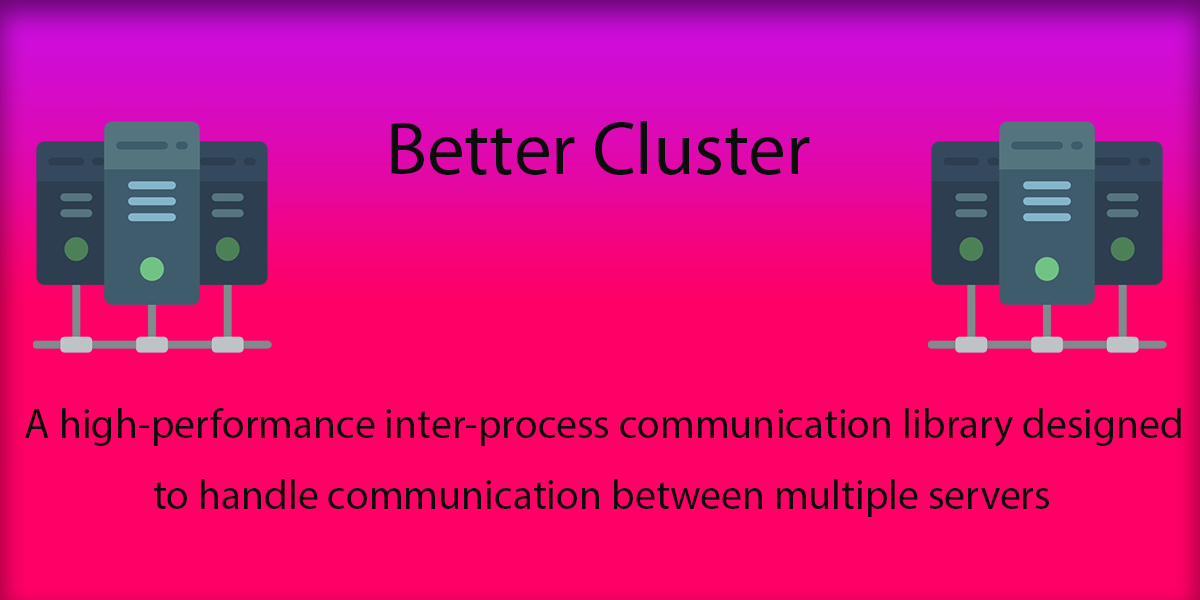
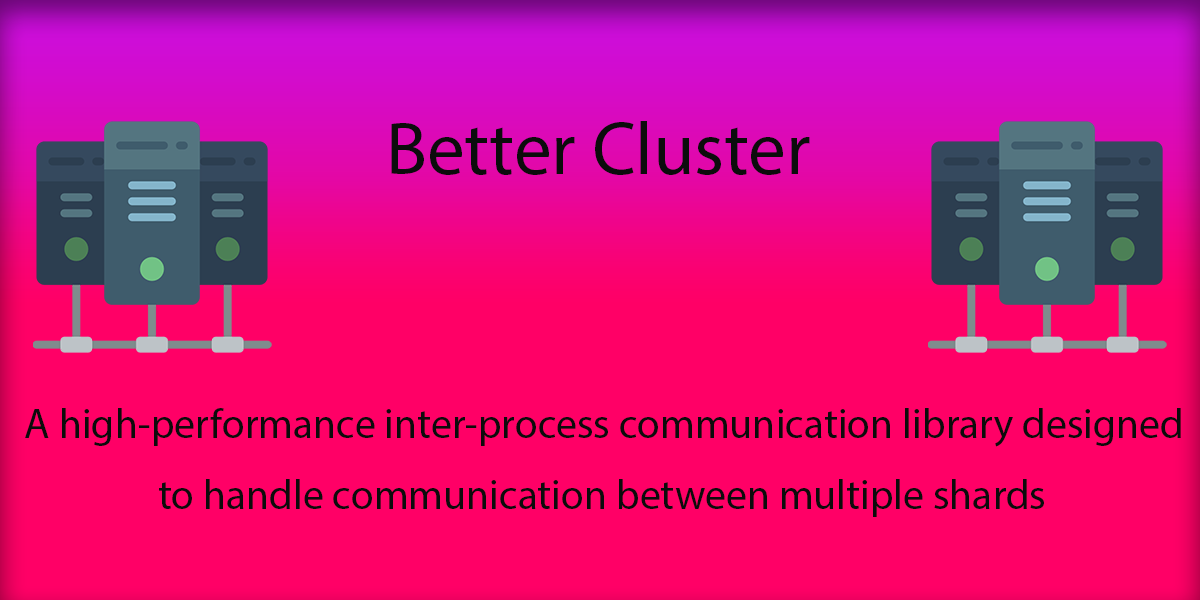
Fixing setup.py

Changed region(s): [[0.1233, 0.78, 0.8942, 0.87]]

diff --git a/setup.py b/setup.py
@@ -3,6 +3,10 @@ import re
 import setuptools
 from pathlib import Path
 
+with open("requirements.txt") as stream:
+    raw = stream.read().splitlines()
+    requirements = [x for x in raw if not x.startswith("git+")]
+
 long_description = (Path(__file__).parent / "README.md").read_text(encoding="UTF-8")
 
 _version_re = re.compile(r'__version__\s+=\s+(.*)')
@@ -11,21 +15,16 @@ with open('discord/ext/cluster/__init__.py', 'rb') as f:
     version = str(ast.literal_eval(_version_re.search(f.read().decode('UTF-8')).group(1)))
 
 setuptools.setup(
-    author="DaPandaOfficial",
-    python_requires=">=3.8.0",
-    license="MIT License",
-    author_email="miroslav.rosenov39@gmail.com",
-    long_description_content_type="text/markdown",
+    name="better-cluster",
+    version=version,
     description="A high-performance inter-process communication library designed to handle communication between multiple shards",
     long_description=long_description,
+    author="DaPandaOfficial",
+    author_email="miroslav.rosenov39@gmail.com",
     url="https://github.com/MiroslavRosenov/better-cluster",
     packages=[
         "discord.ext.cluster"
     ],
-    project_urls={
-        "Source": "https://github.com/MiroslavRosenov/better-cluster",
-        "Issue Tracker": "https://github.com/MiroslavRosenov/better-cluster/issues",
-    },
     classifiers=[
         "Development Status :: 5 - Production/Stable",
         "Framework :: AsyncIO",
@@ -43,7 +42,18 @@ setuptools.setup(
         "Topic :: Software Development :: Libraries",
         "Topic :: Software Development :: Libraries :: Python Modules",
     ],
-    keywords=["better-cluster", "cluster", "python", "discord.py"],
-    name="better-cluster",
-    version=version,
+    license="MIT License",
+    keywords=[
+        "better-cluster",
+        "better-ipc",
+        "cluster", 
+        "python", 
+        "discord.py"
+    ],
+    install_requires=requirements,
+    python_requires=">=3.8.0",
+    project_urls={
+        "Source": "https://github.com/MiroslavRosenov/better-cluster",
+        "Issue Tracker": "https://github.com/MiroslavRosenov/better-cluster/issues",
+    },
 )

diff --git a/discord/ext/cluster/__init__.py b/discord/ext/cluster/__init__.py
@@ -3,7 +3,7 @@ Better Cluster
 ~~~~~~~~~~~~~~~~~~~
 
 A high-performance inter-process communication library designed 
-to handle communication between multiple bots/web applications
+to handle communication between multiple shards
 
 :copyright: (c) 2022-present DaPandaOfficial
 :license: MIT, see LICENSE for more details.

diff --git a/README.md b/README.md
@@ -7,11 +7,11 @@
 <img src="https://img.shields.io/github/license/MiroslavRosenov/better-cluster">
 <a href="https://discord.gg/Rpg7zjFYsh" target="_blank"><img src="https://img.shields.io/discord/875005644594372638?label=discord"></a>
 
-## A high-performance inter-process communication library designed to handle communication between multiple bots/web applications
+## A high-performance inter-process communication library designed to handle communication between multiple shards
 
 <img src="https://raw.githubusercontent.com/MiroslavRosenov/better-cluster/main/images/banner.png">
 
-#### This library is made to handle mulltiple discord clients. If you want something simpler or have only one client, check out [better-ipc](https://github.com/MiroslavRosenov/better-ipc)
+#### This library is made to handle multiple discord clients. If you want something simpler or have only one client, check out [better-ipc](https://github.com/MiroslavRosenov/better-ipc)
 
 # Installation
 > ### Stable version
